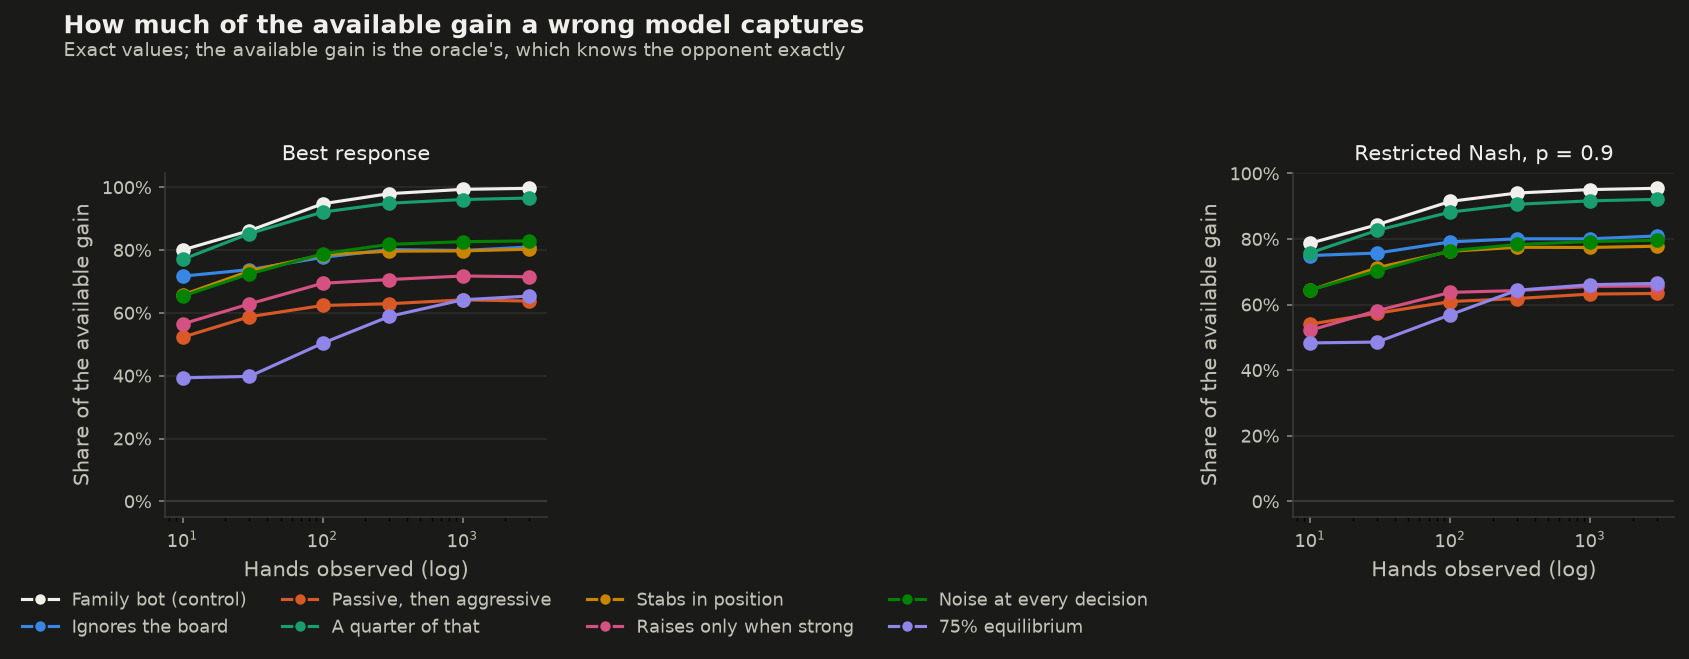
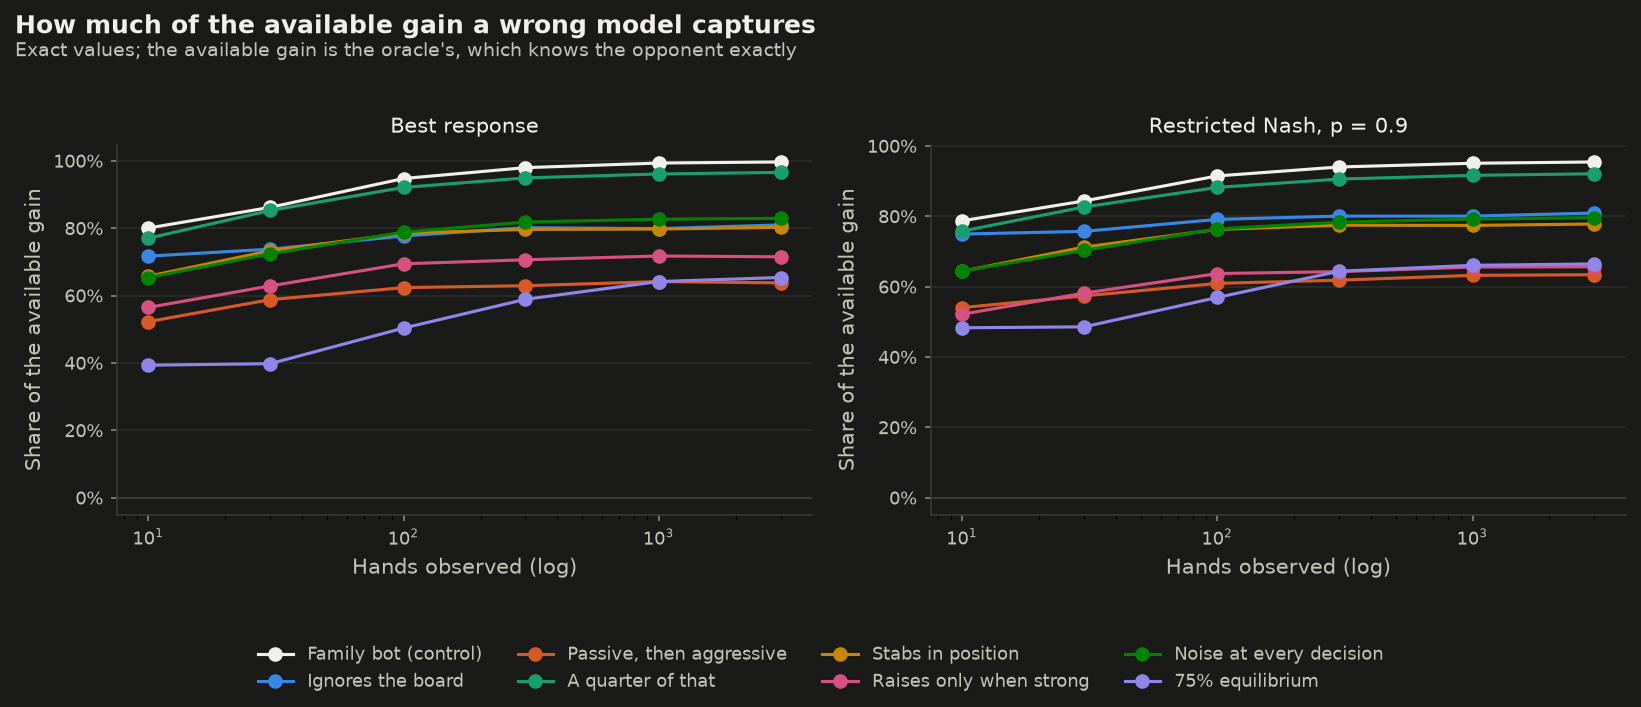
P2.12: redraw misspec_by_hands with a legend under both panels
tight_layout counted the legend hung under the left panel as part of it and
left a wide gap between the panels. Redrawn from the committed JSON; no
number changed.

diff --git a/experiments/phase2_misspec.py b/experiments/phase2_misspec.py
@@ -1051,14 +1051,17 @@ def make_figures(r: dict[str, Any], out_dir: Path) -> None:
             ax.set_ylabel("Share of the available gain")
             ax.yaxis.set_major_formatter(lambda v, _: f"{100 * v:.0f}%")
             ax.set_title(name, color=theme["ink"], fontsize=10)
-        legend(axes[0], theme, loc="upper center", bbox_to_anchor=(1.1, -0.17), ncol=4)
+        handles, labels = axes[0].get_legend_handles_labels()
+        fig.legend(handles, labels, loc="lower center", ncol=4, frameon=False, fontsize=8.5,
+                   labelcolor=theme["ink2"])  # fmt: skip
         title(
             fig,
             theme,
             "How much of the available gain a wrong model captures",
             "Exact values; the available gain is the oracle's, which knows the opponent exactly",
-            top=0.84,
+            top=0.88,
         )
+        fig.subplots_adjust(bottom=0.27)
         return fig
 
     def sessions(theme):
